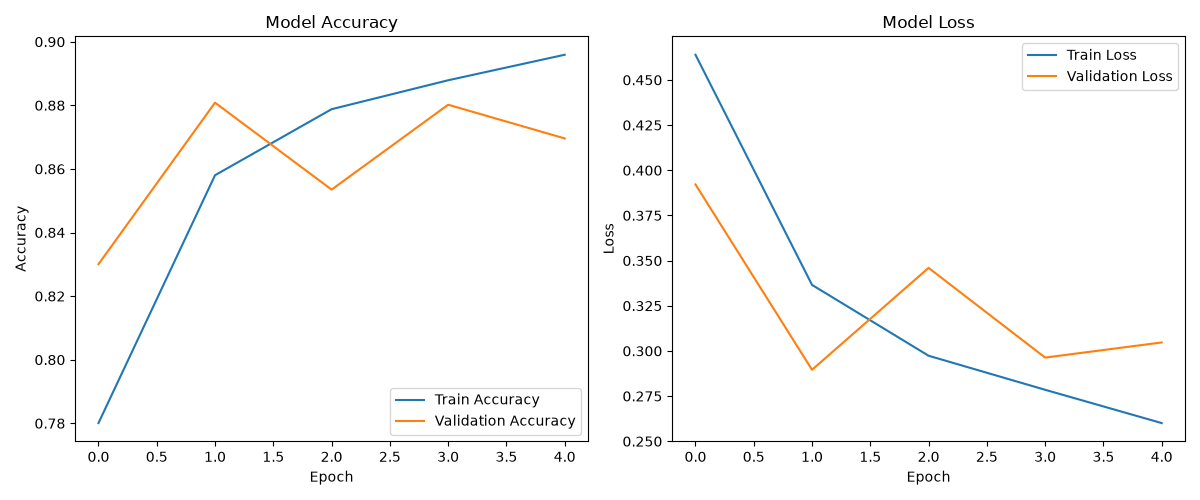
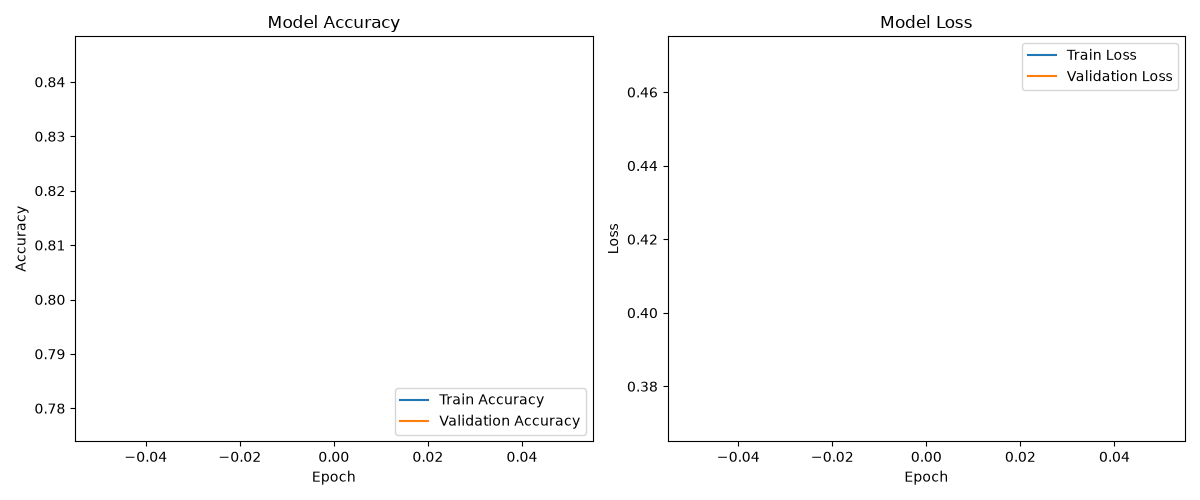
v0.2 venv fix

diff --git a/train.py b/train.py
@@ -65,7 +65,7 @@ model.compile(
 
 model.summary()
 
-EPOCHS = 5
+EPOCHS = 1
 
 print("\nStarting Training...")
 history = model.fit(
@@ -81,106 +81,6 @@ print(f"\nFinal Test Accuracy: {test_accuracy * 100:.2f}%")
 
 #model.save("cifake_detector_model.keras")
 #print("Model saved as 'cifake_detector_model.keras'")
-
-import matplotlib.pyplot as plt
-
-# 2. Create a figure container with a side-by-side layout (1 row, 2 columns)
-plt.figure(figsize=(12, 5))
-
-# --- LEFT PLOT: ACCURACY ---
-plt.subplot(1, 2, 1)
-plt.plot(history.history['accuracy'], label='Train Accuracy')
-plt.plot(history.history['val_accuracy'], label='Validation Accuracy')
-plt.title('Model Accuracy')
-plt.xlabel('Epoch')
-plt.ylabel('Accuracy')
-plt.legend(loc='lower right')
-
-# --- RIGHT PLOT: LOSS ---
-plt.subplot(1, 2, 2)
-plt.plot(history.history['loss'], label='Train Loss')
-plt.plot(history.history['val_loss'], label='Validation Loss')
-plt.title('Model Loss')
-plt.xlabel('Epoch')
-plt.ylabel('Loss')
-plt.legend(loc='upper right')
-
-# 3. Clean up the spacing and save/display the image
-plt.tight_layout()
-plt.savefig('training_performance.png')  # This saves the image to your project folder
-plt.show()
-
-import tensorflow as tf
-import matplotlib.pyplot as plt
-from model import model
-
-BATCH_SIZE = 64
-IMG_HEIGHT = 32
-IMG_WIDTH = 32
-SEED = 10
-
-TRAIN_DATA_DIR = "data/train"
-TEST_DATA_DIR = "data/test"
-
-print("Loading training data...")
-train_ds = tf.keras.utils.image_dataset_from_directory(
-    TRAIN_DATA_DIR,
-    validation_split=0.2,
-    subset="training",
-    seed=SEED,
-    image_size=(IMG_HEIGHT, IMG_WIDTH),
-    batch_size=BATCH_SIZE,
-    label_mode="binary"
-)
-
-print("\nLoading validation data...")
-val_ds = tf.keras.utils.image_dataset_from_directory(
-    TRAIN_DATA_DIR,
-    validation_split=0.2,
-    subset="validation",
-    seed=SEED,
-    image_size=(IMG_HEIGHT, IMG_WIDTH),
-    batch_size=BATCH_SIZE,
-    label_mode="binary"
-)
-
-print("\nLoading test data...")
-test_ds = tf.keras.utils.image_dataset_from_directory(
-    TEST_DATA_DIR,
-    image_size=(IMG_HEIGHT, IMG_WIDTH),
-    batch_size=BATCH_SIZE,
-    label_mode="binary"
-)
-
-AUTOTUNE = tf.data.AUTOTUNE
-train_ds = train_ds.cache().prefetch(buffer_size=AUTOTUNE)
-val_ds = val_ds.cache().prefetch(buffer_size=AUTOTUNE)
-test_ds = test_ds.cache().prefetch(buffer_size=AUTOTUNE)
-
-model.compile(
-    optimizer=tf.keras.optimizers.Adam(learning_rate=0.001),
-    loss='binary_crossentropy',
-    metrics=['accuracy']
-)
-
-model.summary()
-
-EPOCHS = 5
-
-print("\nStarting Training...")
-history = model.fit(
-    train_ds,
-    validation_data=val_ds,
-    epochs=EPOCHS
-)
-
-print("\nEvaluating model against unseen Test Set...")
-test_loss, test_accuracy = model.evaluate(test_ds)
-
-print(f"\nFinal Test Accuracy: {test_accuracy * 100:.2f}%")
-
-model.save("my_model.keras")
-print("Model saved as 'my_model.keras'")
 
 import matplotlib.pyplot as plt
 